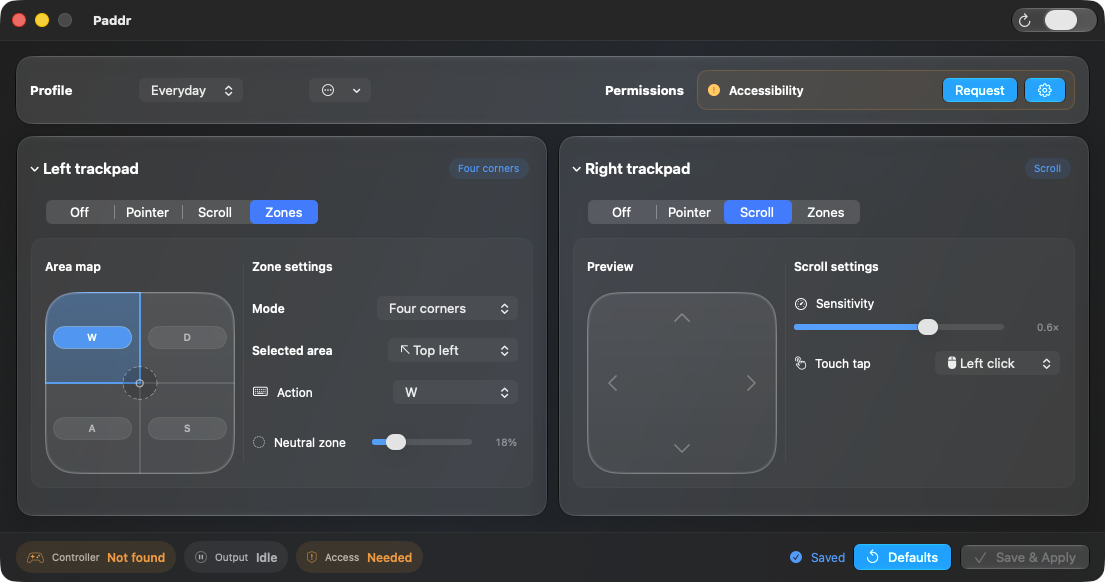
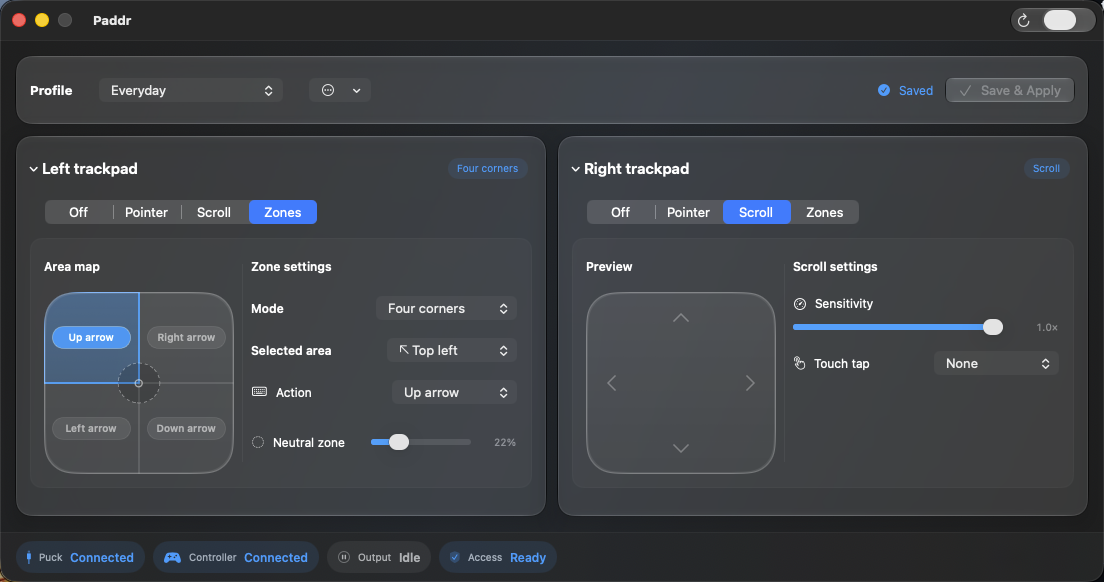
Prepare Paddr 0.9.11 release
Date the 0.9.11 changelog section and give 0.9.9 its 2026-08-13 release
date, bump the bundle version to 0.9.11 (13), and refresh the five
Zones screenshots to the current interface: the four-pill status-only
bottom bar and the profile card with Save & Apply, staged on an
Everyday profile with the right trackpad on Scroll to match the
existing captions.

diff --git a/CHANGELOG.md b/CHANGELOG.md
@@ -2,7 +2,7 @@
 
 User-visible changes to Paddr are recorded here. Release entries describe confirmed behavior at the time of each release; later entries may supersede earlier limitations.
 
-## 0.9.11 — Unreleased
+## 0.9.11 — 2026-08-14
 
 ### Controller status and output
 
@@ -18,7 +18,7 @@ User-visible changes to Paddr are recorded here. Release entries describe confir
 - Moved **Save & Apply** and the saved-state indicator into the top profile card, and moved **Restore Defaults** into the profile actions menu. The bottom bar is now a stable status-only row, so it no longer reflows when statuses change.
 - **Save & Apply** is enabled only while there are unsaved changes.
 
-## 0.9.9 — Unreleased
+## 0.9.9 — 2026-08-13
 
 ### Profiles and setup
 
